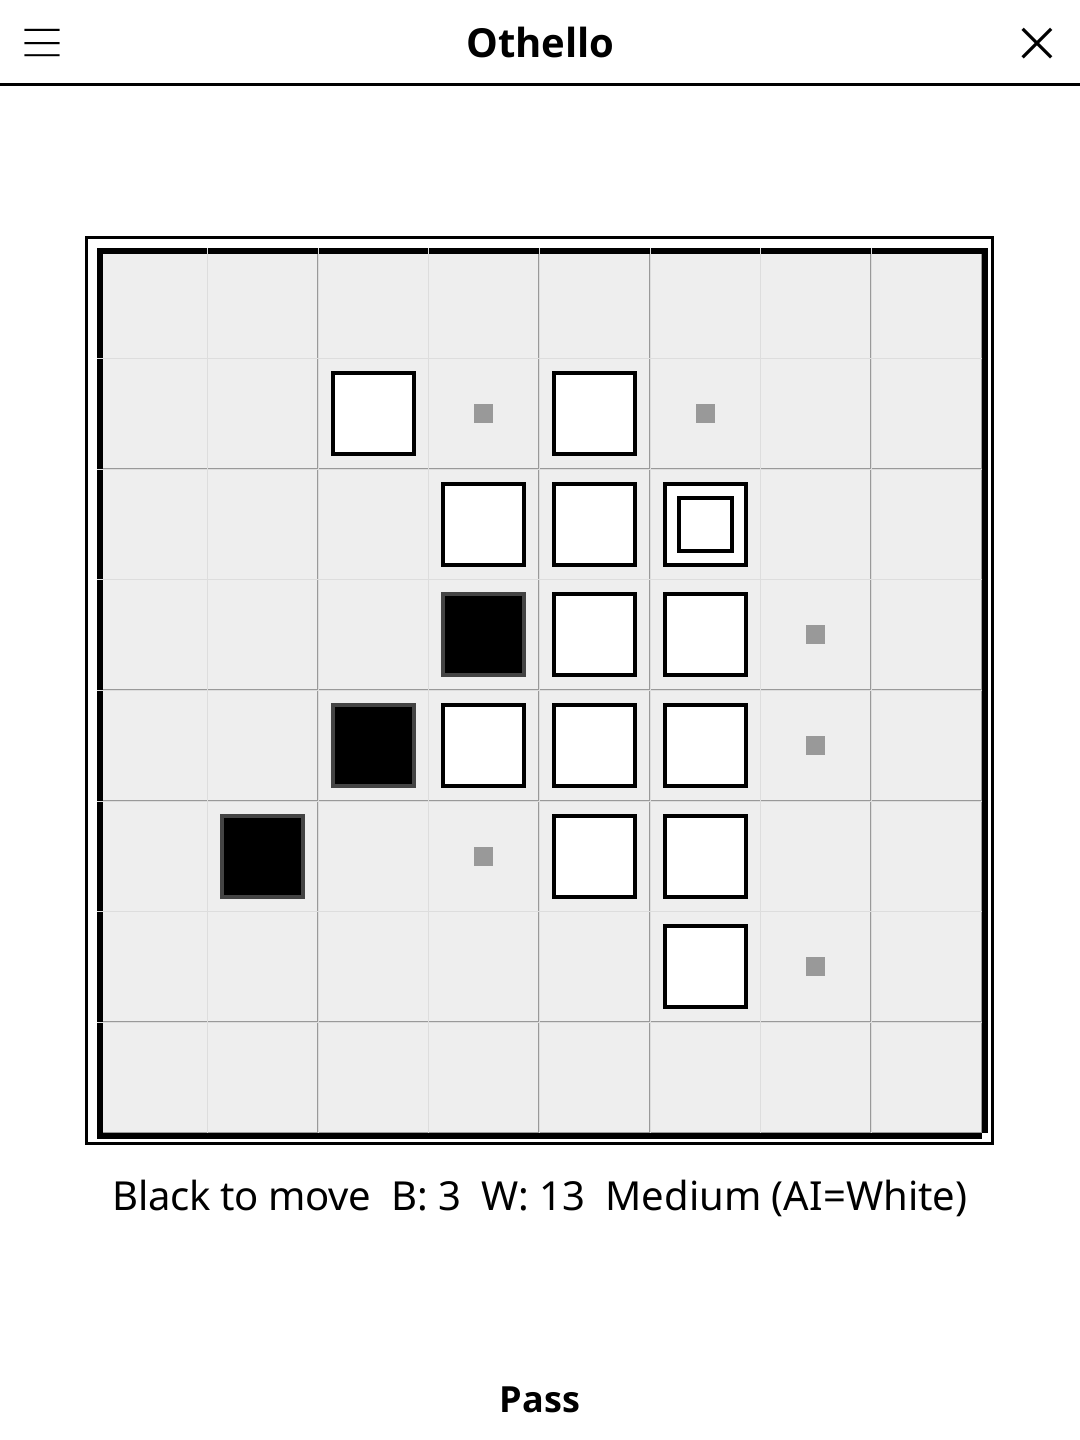
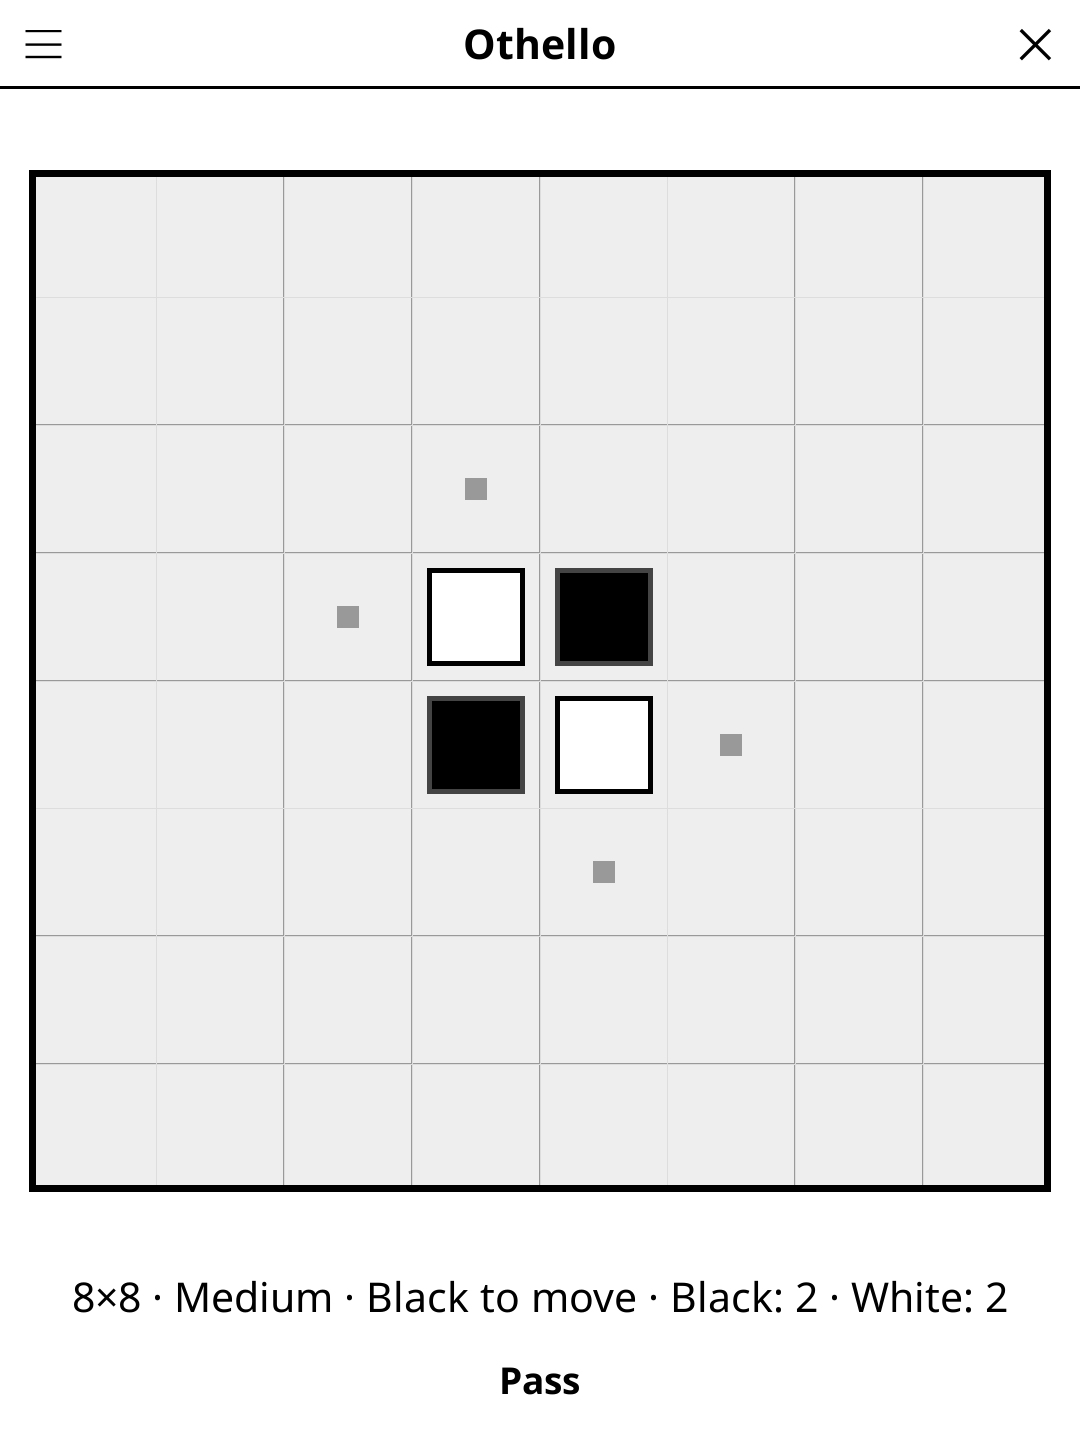
release: 1.3.0 -- redesigned screen, harmonised menu, New game at round end
Screen redesign (full-width action bar, unified pad, status line, larger
board), harmonised title-bar menu, and a "New game" button once the round
is over. See CHANGELOG.md.

diff --git a/CHANGELOG.md b/CHANGELOG.md
@@ -2,6 +2,29 @@
 
 All notable changes to this project will be documented in this file.
 
+## [1.3.0] - 2026-10-30
+
+### Added
+- "New game" once the game is over (full board, or neither side can move):
+  the action bar shows it in place of Pass, so the next game no longer needs
+  the menu.
+
+### Changed
+- Redesigned play screen, in line with the other games: a full-width action
+  bar, a larger board that fills the available room, and one frame around
+  it. The status line reads "8×8 · difficulty · Black to move · Black: n ·
+  White: n" and wraps in landscape instead of being cut off.
+- Title-bar menu in the same order as every other game, with the current
+  values shown: New game (was "New"), "Difficulty: Medium", "Players: 1"
+  (was "1 player"), and "Play as: Black" (was "I=Black"). Play as is hidden
+  in two-player mode, where it meant nothing.
+- New README screenshot.
+
+### Fixed
+- The thick board border was notched wherever a grid line crossed it, and
+  its right and bottom edges spilled just past the board. The border is now
+  drawn last, inside the board.
+
 ## [1.2.2] - 2026-10-02
 
 ### Fixed

diff --git a/README.md b/README.md
@@ -32,7 +32,7 @@ Place a disc to flip all straight lines of opponent discs between your new disc 
 |--------|-----|
 | Place a disc | Tap a valid cell |
 | Undo last move | Tap **Undo** |
-| New game | Tap **New** |
+| New game | Tap **New game** |
 | Show rules | Tap **Rules** |
 
 ## License
